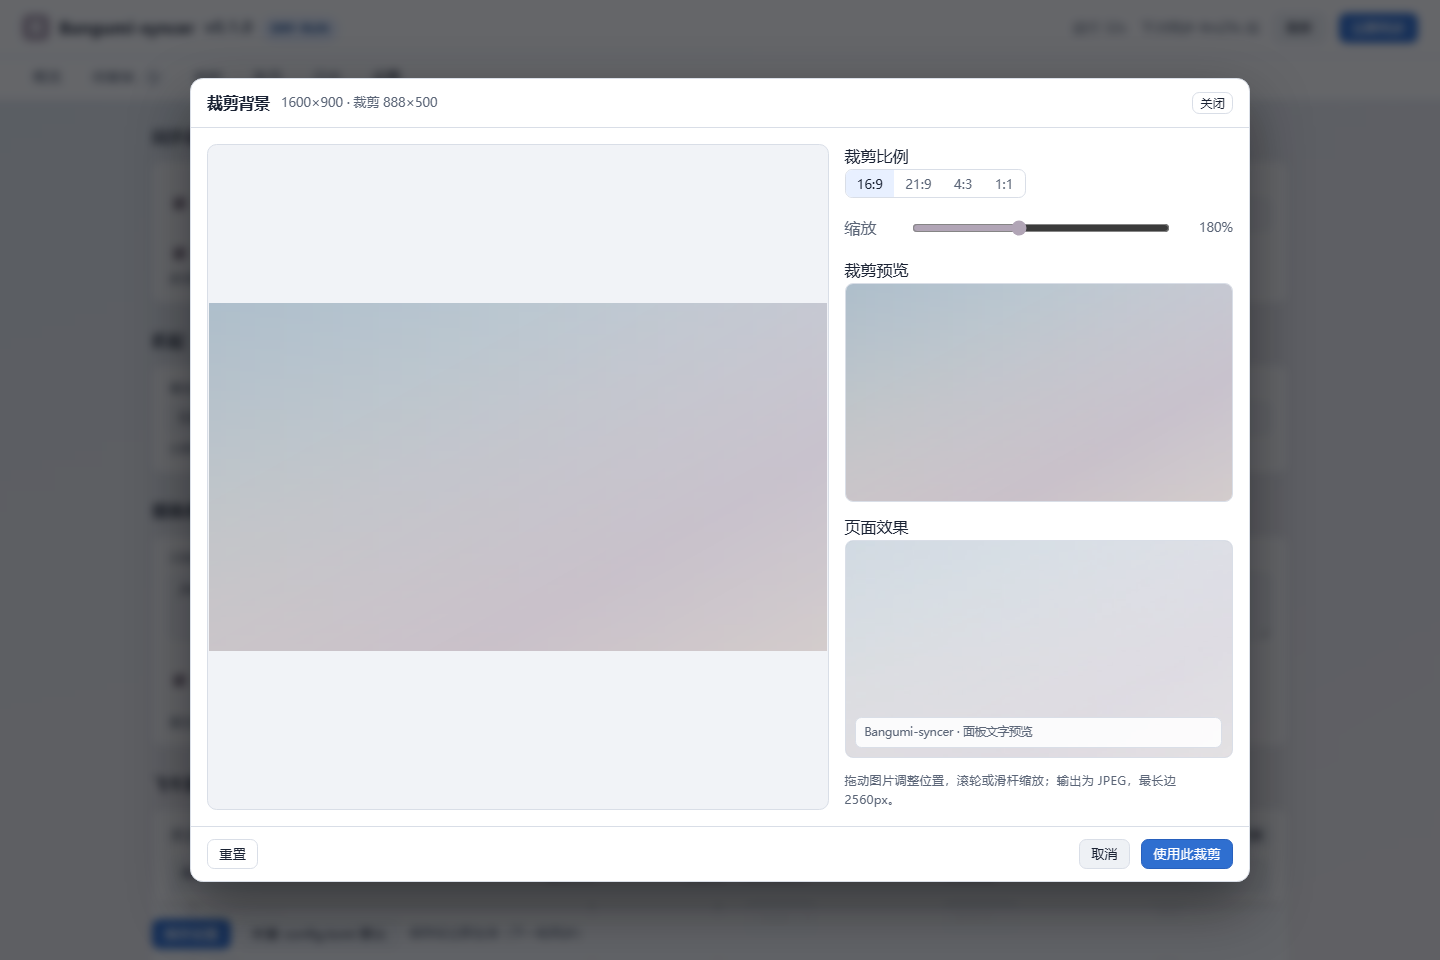
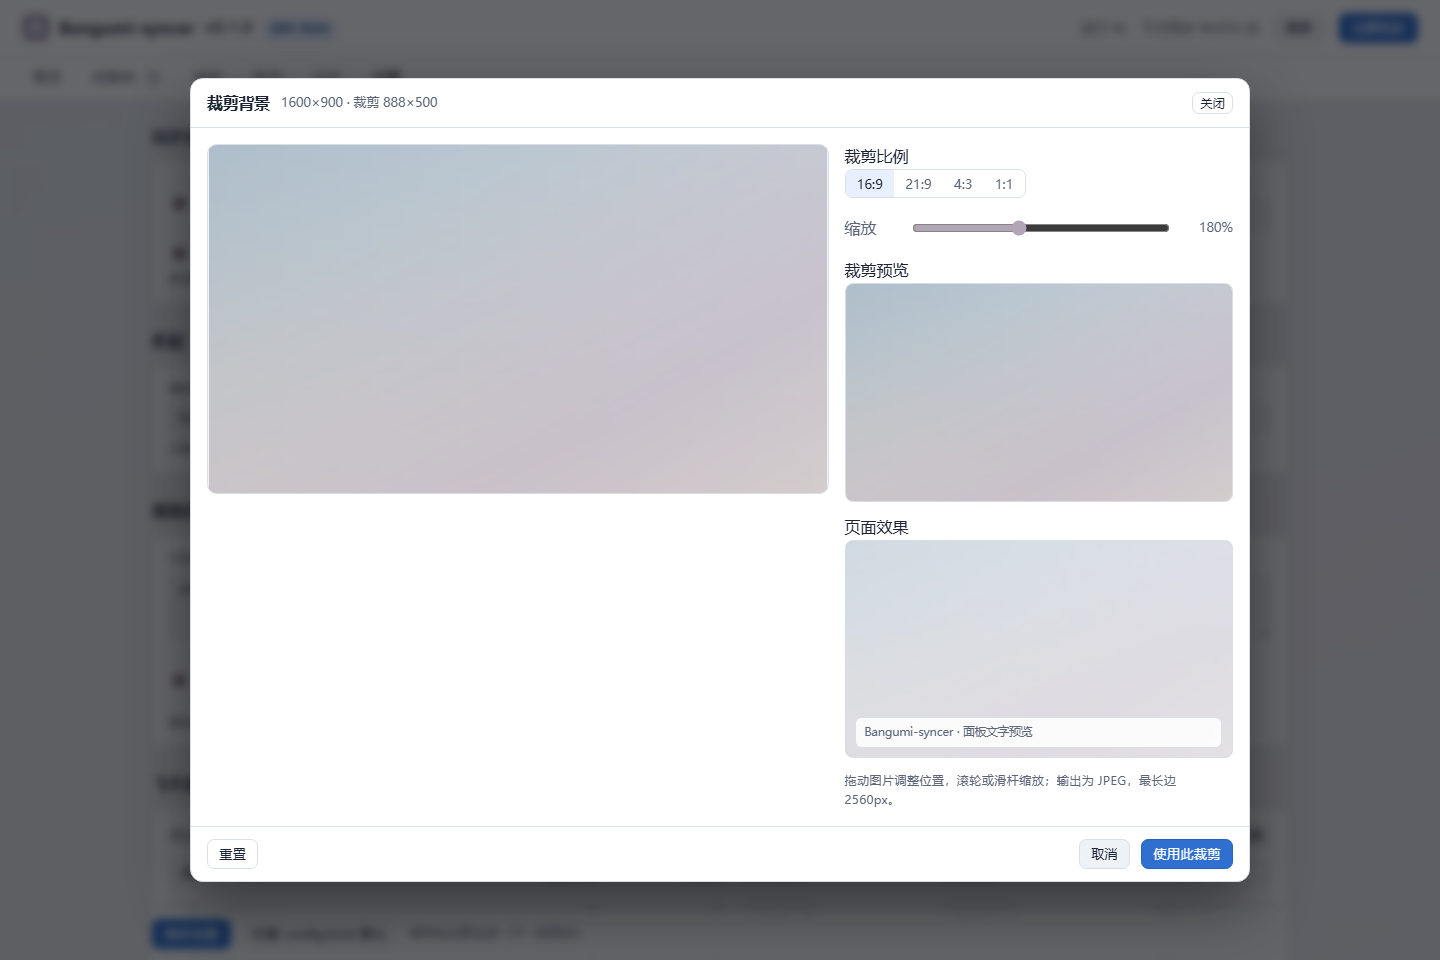
style(crop): 九宫格参考线、画布描边与操作提示

Changed region(s): [[0.125, 0.5, 0.5938, 0.6875], [0.125, 0.125, 0.5938, 0.3125]]

diff --git a/src/bangumi_syncer/web/app.js b/src/bangumi_syncer/web/app.js
@@ -947,7 +947,10 @@ function ensureCropModal() {
           <button class="btn small ghost" data-crop="close">关闭</button>
         </header>
         <div class="crop-body">
-          <div class="crop-stage" id="crop-stage"><canvas id="crop-canvas"></canvas></div>
+          <div class="crop-left">
+            <div class="crop-stage" id="crop-stage"><canvas id="crop-canvas"></canvas></div>
+            <p class="hint crop-help" style="margin:0">拖动图片调整位置 · 滚轮或滑杆缩放 · 上方切换裁剪比例</p>
+          </div>
           <aside class="crop-side">
             <div>
               <div class="field">裁剪比例</div>
@@ -1166,6 +1169,18 @@ function drawCrop() {
     ctx.fillRect(0, 0, crop.w, crop.h);
     ctx.imageSmoothingQuality = 'high';
     ctx.drawImage(crop.img, dx, dy, displayW, displayH);
+    // rule-of-thirds guides (drawn on the view only, never in the output)
+    const dark = document.documentElement.dataset.theme !== 'light';
+    ctx.strokeStyle = dark ? 'rgba(255,255,255,.22)' : 'rgba(0,0,0,.20)';
+    ctx.lineWidth = 1;
+    ctx.beginPath();
+    for (let i = 1; i < 3; i += 1) {
+      const gx = Math.round((crop.w * i) / 3) + 0.5;
+      const gy = Math.round((crop.h * i) / 3) + 0.5;
+      ctx.moveTo(gx, 0); ctx.lineTo(gx, crop.h);
+      ctx.moveTo(0, gy); ctx.lineTo(crop.w, gy);
+    }
+    ctx.stroke();
   });
 }
 

diff --git a/src/bangumi_syncer/web/style.css b/src/bangumi_syncer/web/style.css
@@ -357,10 +357,13 @@ input[type="file"]::file-selector-button:hover { border-color: var(--accent); }
 .modal-foot { border-bottom: 0; border-top: 1px solid var(--line); justify-content: flex-end; }
 .modal-head strong { font-size: .98rem; }
 .crop-body { display: grid; gap: 1rem; grid-template-columns: minmax(0, 1.6fr) minmax(15rem, 1fr); padding: 1rem; align-items: start; }
+.crop-left { display: flex; flex-direction: column; gap: .55rem; min-width: 0; }
 .crop-stage {
   display: grid; place-items: center; align-self: start;
   background: var(--code-bg); border: 1px solid var(--line); border-radius: .6rem; overflow: hidden;
 }
+#crop-canvas { box-shadow: 0 0 0 1px var(--line) inset; }
+.crop-help { font-size: .76rem; }
 #crop-canvas { display: block; max-width: 100%; cursor: grab; touch-action: none; }
 #crop-canvas.dragging { cursor: grabbing; }
 .crop-side { display: flex; flex-direction: column; gap: .8rem; min-width: 0; }
